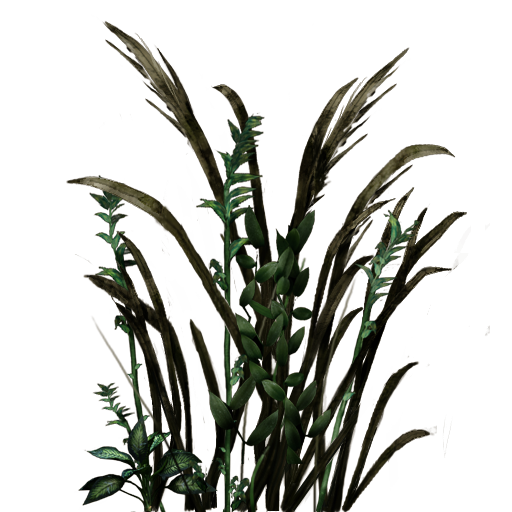
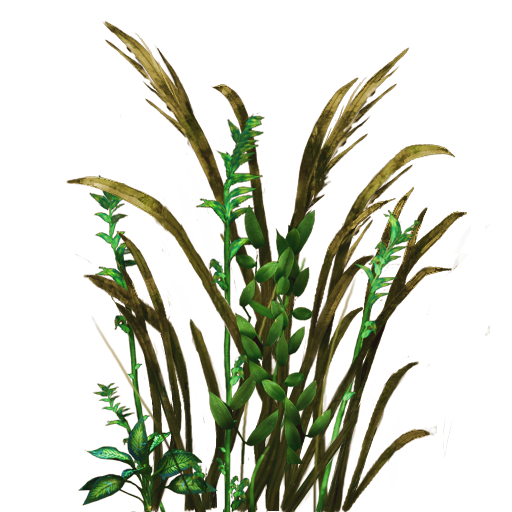
* Grass density and size now scales with surface size. Greatly increases FPS on ctf3 and other maps with small ground surfaces. * All ground covers now sway in the wind. * Fixed minor issues with ctf3.

Changed region(s): [[0.125, 0.0312, 0.9062, 1.0]]

diff --git a/codemp/rd-warzone/tr_glsl.cpp b/codemp/rd-warzone/tr_glsl.cpp
@@ -160,7 +160,7 @@ extern const char *fallbackShader_testshader_vp;
 extern const char *fallbackShader_testshader_fp;
 
 //#define HEIGHTMAP_TESSELATION
-#define HEIGHTMAP_TESSELATION2 // NEW
+#define HEIGHTMAP_TESSELATION2 // NEW - GOOD
 //#define PN_TRIANGLES_TESSELATION
 //#define PHONG_TESSELATION
 
@@ -399,6 +399,7 @@ const char fallbackShader_genericTessControl_cp[] =
 "out precise vec3 Blending_ES_in[3];\n"\
 "out float Slope_ES_in[3];\n"\
 "out float usingSteepMap_ES_in[3];\n"\
+"//out float tessScale_ES_in[3];\n"\
 "\n"\
 "bool InstanceCloudReductionCulling(vec4 InstancePosition, vec3 ObjectExtent) \n"\
 "{\n"\
@@ -467,6 +468,9 @@ const char fallbackShader_genericTessControl_cp[] =
 "	Blending_ES_in[gl_InvocationID]			= Blending_CS_in[gl_InvocationID];\n"\
 "	Slope_ES_in[gl_InvocationID]				= Slope_CS_in[gl_InvocationID];\n"\
 "	usingSteepMap_ES_in[gl_InvocationID]		= usingSteepMap_CS_in[gl_InvocationID];\n"\
+"\n"\
+"//	float size = max( max(distance(WorldPos_ES_in[0].xyz, WorldPos_ES_in[1].xyz), distance(WorldPos_ES_in[0].xyz, WorldPos_ES_in[2].xyz)) , distance(WorldPos_ES_in[1].xyz, WorldPos_ES_in[2].xyz));\n"\
+"//   tessScale_ES_in[gl_InvocationID] = size / 1024.0;\n"\
 "\n"\
 "	//if(gl_InvocationID == 0)\n"\
 "	{\n"\
@@ -546,6 +550,7 @@ const char fallbackShader_genericTessControl_ep[] =
 "in precise vec3 Blending_ES_in[];\n"\
 "in float Slope_ES_in[];\n"\
 "in float usingSteepMap_ES_in[];\n"\
+"//in float tessScale_ES_in[];\n"\
 "\n"\
 "out precise vec4 WorldPos_GS_in;\n"\
 "out precise vec2 TexCoord_GS_in;\n"\
@@ -559,6 +564,7 @@ const char fallbackShader_genericTessControl_ep[] =
 "out precise vec3 Blending_GS_in;\n"\
 "out float Slope_GS_in;\n"\
 "out float usingSteepMap_GS_in;\n"\
+"//out float tessScale_GS_in;\n"\
 "\n"\
 "uniform vec4				u_Local9; // testvalue0, 1, 2, 3\n"\
 "\n"\
@@ -576,6 +582,7 @@ const char fallbackShader_genericTessControl_ep[] =
 "	Blending_GS_in = (gl_TessCoord.x * Blending_ES_in[0] + gl_TessCoord.y * Blending_ES_in[1] + gl_TessCoord.z * Blending_ES_in[2]);\n"\
 "	Slope_GS_in = (gl_TessCoord.x * Slope_ES_in[0] + gl_TessCoord.y * Slope_ES_in[1] + gl_TessCoord.z * Slope_ES_in[2]);\n"\
 "	usingSteepMap_GS_in = (gl_TessCoord.x * usingSteepMap_ES_in[0] + gl_TessCoord.y * usingSteepMap_ES_in[1] + gl_TessCoord.z * usingSteepMap_ES_in[2]);\n"\
+"//	tessScale_GS_in = (gl_TessCoord.x * tessScale_ES_in[0] + gl_TessCoord.y * tessScale_ES_in[1] + gl_TessCoord.z * tessScale_ES_in[2]);\n"\
 "//	WorldPos_GS_in.z += u_Local9.r/*16.0*/;\n"\
 "}\n";
 
@@ -608,6 +615,7 @@ const char fallbackShader_genericGeometry[] =
 "in precise vec3 Blending_GS_in[];\n"\
 "in float Slope_GS_in[];\n"\
 "in float usingSteepMap_GS_in[];\n"\
+"//in float tessScale_GS_in[];\n"\
 "\n"\
 "out precise vec3 WorldPos_FS_in;\n"\
 "out precise vec2 TexCoord_FS_in;\n"\
@@ -676,7 +684,7 @@ const char fallbackShader_genericGeometry[] =
 "	 vLocalSeed = WorldPos_GS_in[i].xyx;\n"\
 "//    vec3 height = vec3(randZeroOne() * 2.0 - 1.0, randZeroOne() * 2.0 - 1.0, randZeroOne() * 2.0 - 1.0);\n"\
 "//    vec3 height = vec3(randZeroOne() /** 2.0 - 1.0*/);\n"\
-"    vec3 height = vec3(0.0, 0.0, randZeroOne());\n"\
+"    vec3 height = vec3(0.0, 0.0, randZeroOne());// * tessScale_GS_in[i];\n"\
 "\n"\
 "//	 vec3 offset = normal * (-gDispFactor * height);\n"\
 "//	 vec3 offset = vec3(0.0, 0.0, 1.0) * (-gDispFactor * height);\n"\
@@ -900,8 +908,8 @@ const char fallbackShader_genericTessControl_ep[] =
 "out vec4 PrimaryLightDir_FS_in;\n"\
 "out vec2 TexCoord2_FS_in;\n"\
 "out vec3 Blending_FS_in;\n"\
-"out float Slope_FS_in;\n"\
-"out float usingSteepMap_FS_in;\n"\
+"flat out float Slope_FS_in;\n"\
+"flat out float usingSteepMap_FS_in;\n"\
 "\n"\
 "#define b300    gl_in[0].gl_Position.xyz\n"\
 "#define b030    gl_in[1].gl_Position.xyz\n"\
@@ -1143,8 +1151,8 @@ const char fallbackShader_genericTessControl_ep[] =
 "out vec4 PrimaryLightDir_FS_in;\n"\
 "out vec2 TexCoord2_FS_in;\n"\
 "out vec3 Blending_FS_in;\n"\
-"out float Slope_FS_in;\n"\
-"out float usingSteepMap_FS_in;\n"\
+"flat out float Slope_FS_in;\n"\
+"flat out float usingSteepMap_FS_in;\n"\
 "\n"\
 "#define Pi  gl_in[0].gl_Position.xyz\n"\
 "#define Pj  gl_in[1].gl_Position.xyz\n"\

diff --git a/codemp/rd-warzone/tr_shader.cpp b/codemp/rd-warzone/tr_shader.cpp
@@ -4185,7 +4185,14 @@ static void CollapseStagesToLightall(shaderStage_t *diffuse,
 		case MATERIAL_DRYLEAVES:		// 19			// dried up leaves on the floor
 		case MATERIAL_GREENLEAVES:		// 20			// fresh leaves still on a tree
 			if (diffuse->bundle[TB_DIFFUSEMAP].image[0]
-				&& (StringContainsWord(diffuse->bundle[TB_DIFFUSEMAP].image[0]->imgName, "foliage/") || StringContainsWord(diffuse->bundle[TB_DIFFUSEMAP].image[0]->imgName, "foliages/")))
+				&& (StringContainsWord(diffuse->bundle[TB_DIFFUSEMAP].image[0]->imgName, "foliage/") 
+					|| StringContainsWord(diffuse->bundle[TB_DIFFUSEMAP].image[0]->imgName, "foliages/")))
+			{
+				diffuse->isFoliage = true;
+			}
+			else if (diffuse->bundle[TB_DIFFUSEMAP].image[0]
+				&& (StringContainsWord(diffuse->bundle[TB_DIFFUSEMAP].image[0]->imgName, "warzone/plant/") 
+					|| StringContainsWord(diffuse->bundle[TB_DIFFUSEMAP].image[0]->imgName, "warzone/plants/")))
 			{
 				diffuse->isFoliage = true;
 			}
@@ -4193,9 +4200,24 @@ static void CollapseStagesToLightall(shaderStage_t *diffuse,
 				&& !StringContainsWord(diffuse->bundle[TB_DIFFUSEMAP].image[0]->imgName, "trunk")
 				&& !StringContainsWord(diffuse->bundle[TB_DIFFUSEMAP].image[0]->imgName, "bark")
 				&& !StringContainsWord(diffuse->bundle[TB_DIFFUSEMAP].image[0]->imgName, "giant_tree")
-				&& (StringContainsWord(diffuse->bundle[TB_DIFFUSEMAP].image[0]->imgName, "yavin/tree") || StringContainsWord(diffuse->bundle[TB_DIFFUSEMAP].image[0]->imgName, "trees")))
+				&& (StringContainsWord(diffuse->bundle[TB_DIFFUSEMAP].image[0]->imgName, "yavin/tree") 
+					|| StringContainsWord(diffuse->bundle[TB_DIFFUSEMAP].image[0]->imgName, "trees")
+					|| StringContainsWord(diffuse->bundle[TB_DIFFUSEMAP].image[0]->imgName, "yavin/grass")
+					|| StringContainsWord(diffuse->bundle[TB_DIFFUSEMAP].image[0]->imgName, "yavin/tree_leaves")
+					|| StringContainsWord(diffuse->bundle[TB_DIFFUSEMAP].image[0]->imgName, "yavin/tree1")
+					|| StringContainsWord(diffuse->bundle[TB_DIFFUSEMAP].image[0]->imgName, "yavin/vine")))
 			{
 				diffuse->isFoliage = true;
+			}
+			else if (diffuse->bundle[TB_DIFFUSEMAP].image[0]
+				&& StringContainsWord(diffuse->bundle[TB_DIFFUSEMAP].image[0]->imgName, "warzone/deadtree")
+					|| StringContainsWord(diffuse->bundle[TB_DIFFUSEMAP].image[0]->imgName, "warzone\\deadtree"))
+			{
+				if (!(StringContainsWord(diffuse->bundle[TB_DIFFUSEMAP].image[0]->imgName, "bark") 
+					|| StringContainsWord(diffuse->bundle[TB_DIFFUSEMAP].image[0]->imgName, "trunk") 
+					|| StringContainsWord(diffuse->bundle[TB_DIFFUSEMAP].image[0]->imgName, "giant_tree") 
+					|| StringContainsWord(diffuse->bundle[TB_DIFFUSEMAP].image[0]->imgName, "vine01")))
+					diffuse->isFoliage = true;
 			}
 			break;
 		default:
@@ -6908,6 +6930,13 @@ shader_t *R_FindShader( const char *name, const int *lightmapIndexes, const byte
 			sprintf(myShader, uniqueGenericFoliageBillboardShader, strippedName, strippedName);
 		}
 		else if (StringContainsWord(strippedName, "warzone/foliage") || StringContainsWord(strippedName, "warzone\\foliage"))
+		{
+			sprintf(myShader, uniqueGenericFoliageShader, strippedName, strippedName);
+		}
+		else if (StringContainsWord(strippedName, "yavin/grass") || StringContainsWord(strippedName, "yavin\\grass") 
+			|| StringContainsWord(strippedName, "yavin/tree_leaves") || StringContainsWord(strippedName, "yavin\\tree_leaves")
+			|| StringContainsWord(strippedName, "yavin/tree1") || StringContainsWord(strippedName, "yavin\\tree1")
+			|| StringContainsWord(strippedName, "yavin/vine") || StringContainsWord(strippedName, "yavin\\vine"))
 		{
 			sprintf(myShader, uniqueGenericFoliageShader, strippedName, strippedName);
 		}

diff --git a/codemp/cgame/cg_foliage.c b/codemp/cgame/cg_foliage.c
@@ -2122,7 +2122,7 @@ float RoofHeightAbove(vec3_t org)
 
 	if (tr.startsolid || tr.allsolid)
 	{
-		trap->Print("start or allsolid.\n");
+		//trap->Print("start or allsolid.\n");
 		return -131072.0f;
 	}
 
